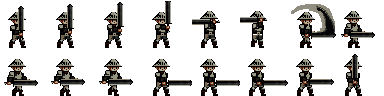
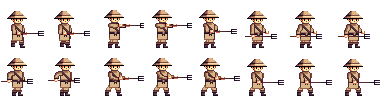
add farmer attack and ai knight class

diff --git a/battlefield/ai_character.py b/battlefield/ai_character.py
@@ -4,6 +4,7 @@ from a_star import next_step_direction, closest_open_tile_to
 from animation import Animation
 from game_constants import STANDARD_FRAME_TIME, GRID_COLUMNS, GRID_ROWS, MOVEMENT_DELAY
 from walking_fighting_character import WalkingFightingCharacter
+from weapon import Weapon
 
 
 class AICharacter(WalkingFightingCharacter):
@@ -15,8 +16,8 @@ class AICharacter(WalkingFightingCharacter):
         self.animations.update({
             'facing_left': Animation("resources/farmer_character/walk_left.png", 48, 48, 8, 8, frame_duration=STANDARD_FRAME_TIME, scale=1.0, loop=False, margin_x=-9),
             'facing_right': Animation("resources/farmer_character/walk_right.png", 48, 48, 8, 8, frame_duration=STANDARD_FRAME_TIME, scale=1.0, loop=False, margin_x=9),
-            'fighting_left': Animation("resources/ai_character/attacks_left.png", 48, 48, 8, 16, frame_duration=STANDARD_FRAME_TIME / 2, scale=1.0, loop=False, margin_x=-9),
-            'fighting_right': Animation("resources/ai_character/attack_right.png", 48, 48, 8, 16, frame_duration=STANDARD_FRAME_TIME / 2, scale=1.0, loop=False, margin_x=9),
+            'fighting_left': Animation("resources/farmer_character/attacks_left.png", 48, 48, 8, 16, frame_duration=self.weapon.frame_time, scale=1.0, loop=False, margin_x=-9),
+            'fighting_right': Animation("resources/farmer_character/attack_right.png", 48, 48, 8, 16, frame_duration=self.weapon.frame_time, scale=1.0, loop=False, margin_x=9),
         })
 
     def find_goal_location(self, game_state):
@@ -118,3 +119,18 @@ class AICharacter(WalkingFightingCharacter):
                     self.facing_left = True
                 if self.target.grid_x - self.grid_x > 0:
                     self.facing_left = False
+
+
+class AIKnight(AICharacter):
+    def __init__(self, *args, **kwargs):
+        super().__init__(*args, **kwargs)
+
+        self.target = None
+        self.weapon = Weapon(15, STANDARD_FRAME_TIME / 2, MOVEMENT_DELAY)
+
+        self.animations.update({
+            'facing_left': Animation("resources/ai_character/walk_left.png", 48, 48, 8, 8, frame_duration=STANDARD_FRAME_TIME, scale=1.0, loop=False, margin_x=-9),
+            'facing_right': Animation("resources/ai_character/walk_right.png", 48, 48, 8, 8, frame_duration=STANDARD_FRAME_TIME, scale=1.0, loop=False, margin_x=9),
+            'fighting_left': Animation("resources/ai_character/attacks_left.png", 48, 48, 8, 16, frame_duration=self.weapon.frame_time, scale=1.0, loop=False, margin_x=-9),
+            'fighting_right': Animation("resources/ai_character/attack_right.png", 48, 48, 8, 16, frame_duration=self.weapon.frame_time, scale=1.0, loop=False, margin_x=9),
+        })

diff --git a/battlefield/game_state.py b/battlefield/game_state.py
@@ -2,7 +2,7 @@ import random
 
 import numpy as np
 
-from ai_character import AICharacter
+from ai_character import AICharacter, AIKnight
 from ai_archer import AIArcher
 from game_constants import GRID_ROWS, CELL_SIZE, MOVEMENT_DELAY, \
     GRID_COLUMNS
@@ -181,6 +181,13 @@ class GameState:
             AIArcher(
                 position_x=18,
                 position_y=7,
+                cell_size=CELL_SIZE,
+                move_delay=MOVEMENT_DELAY,
+                team=1
+            ),
+            AIKnight(
+                position_x=21,
+                position_y=8,
                 cell_size=CELL_SIZE,
                 move_delay=MOVEMENT_DELAY,
                 team=1
